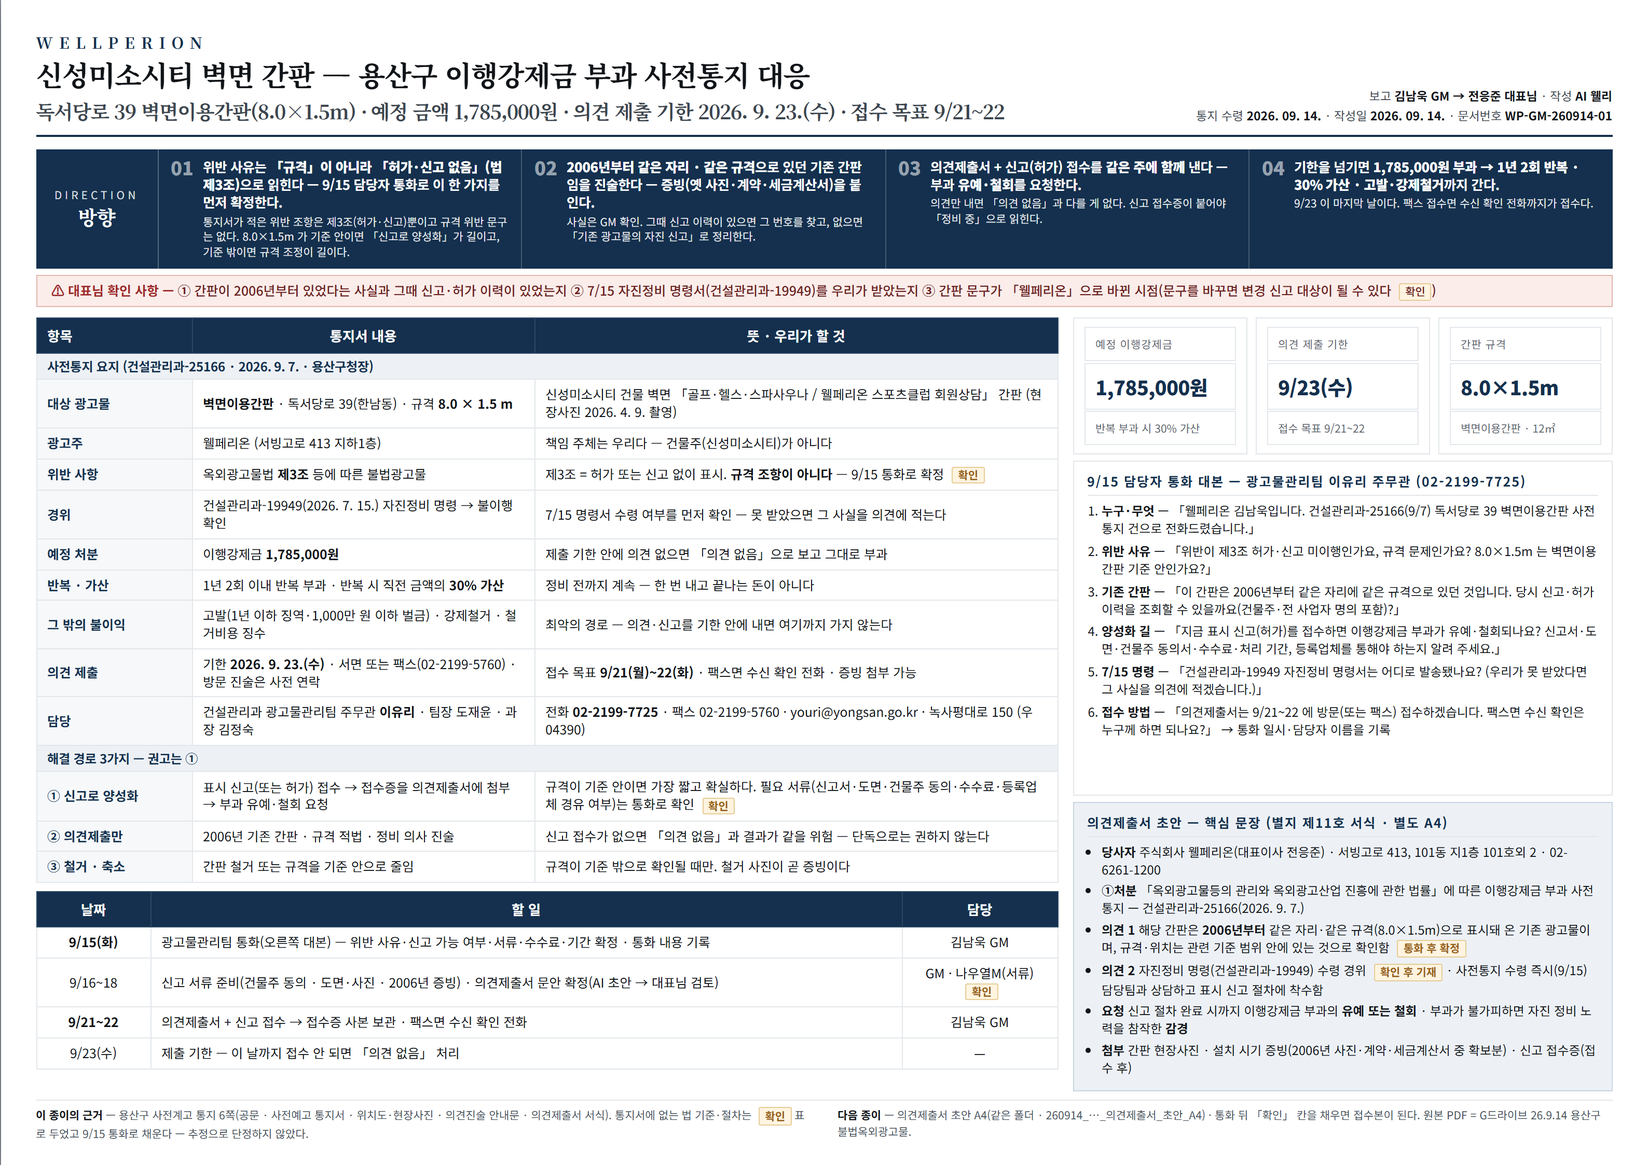
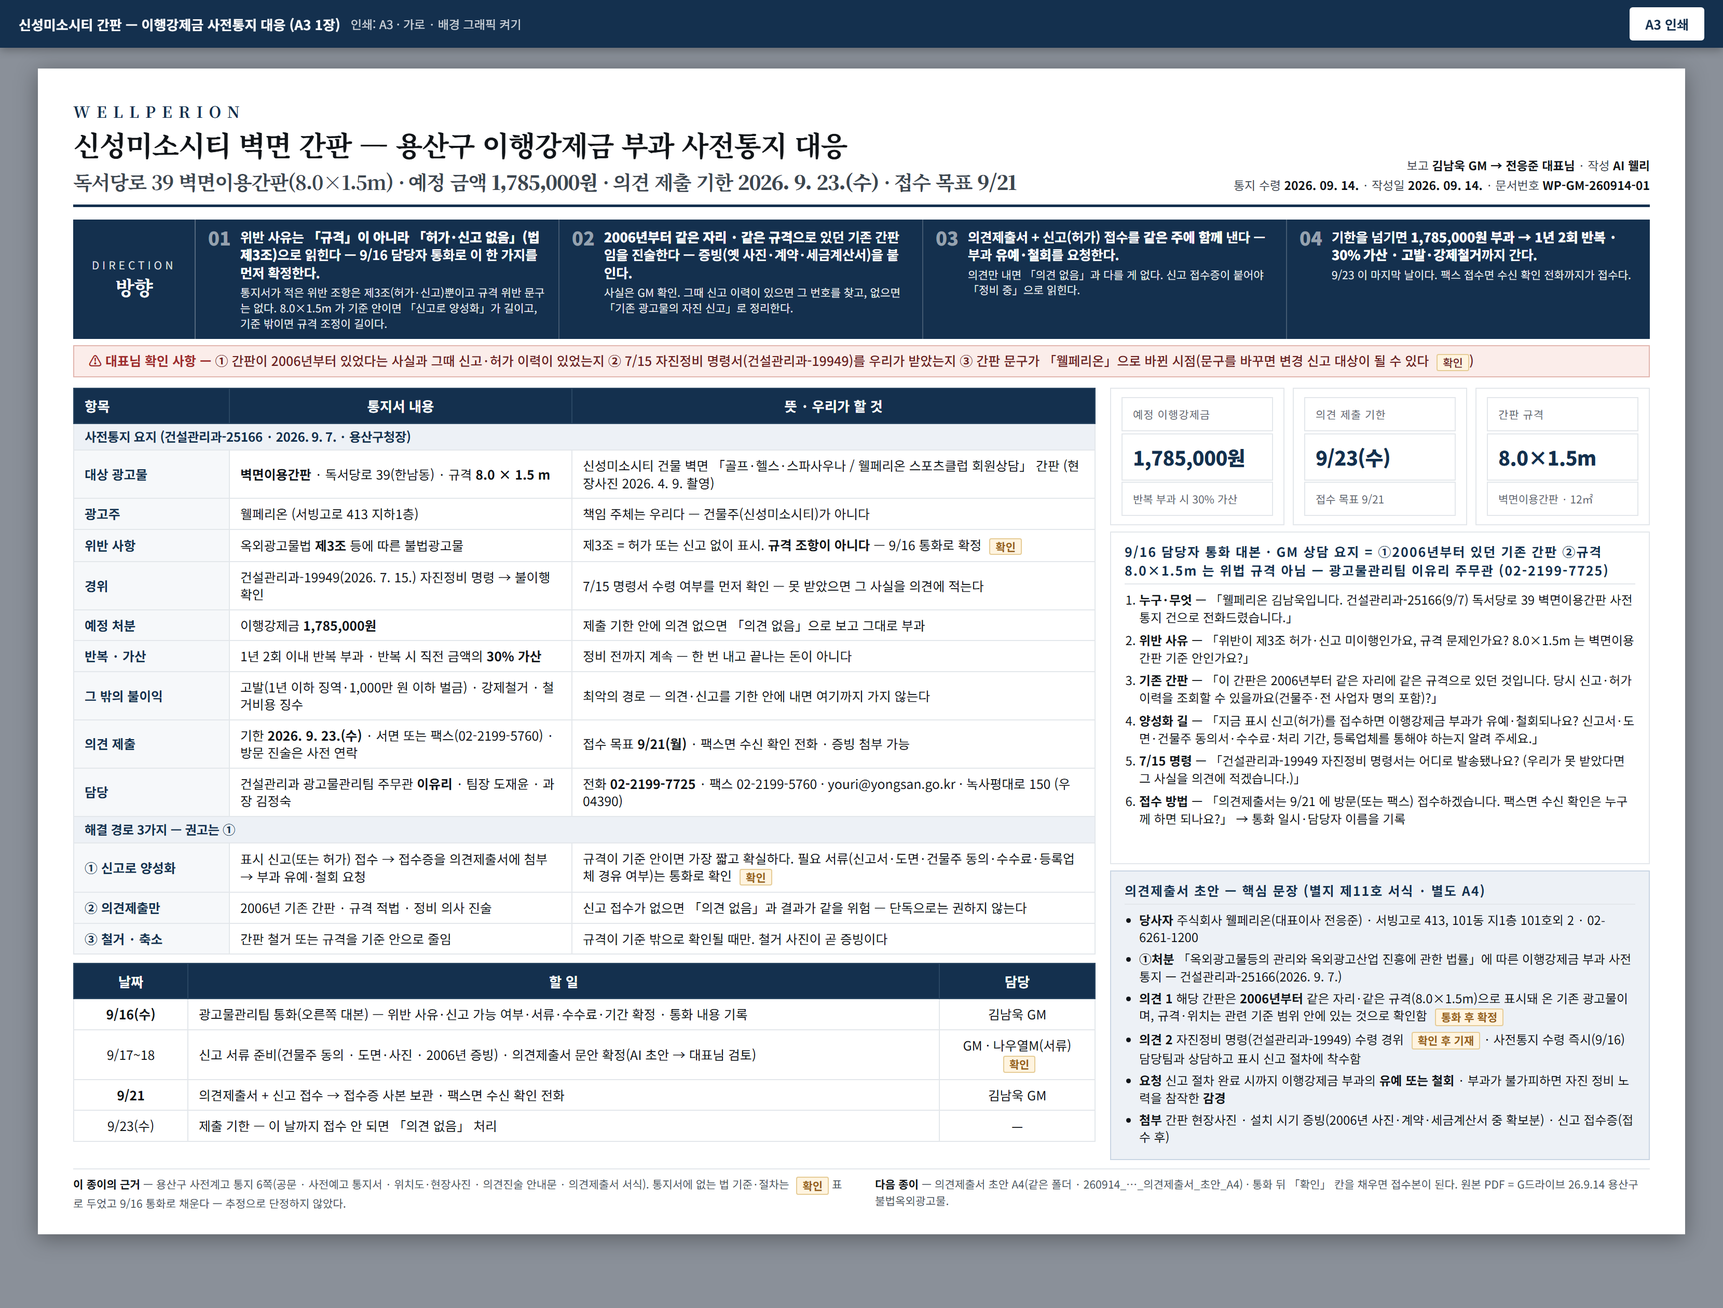
[웰리] 신성미소시티 간판 — 카드에 상담 정리·문서 3건 · 통화 9/16·접수 9/21 갱신 · 전사일정 2줄 (GM 09-15)

diff --git a/3. 웰페리온 가이드/coo/chairman/260914_신성미소시티_간판_이행강제금_대응_A3.html b/3. 웰페리온 가이드/coo/chairman/260914_신성미소시티_간판_이행강제금_대응_A3.html
@@ -9,7 +9,7 @@
 <!--
   용산구 불법옥외광고물 이행강제금 사전계고(건설관리과-25166 · 2026.9.7) 대응 요약 A3 — 2026-09-14 웰리 (GM 지시 16:05 · 대표님 보고 건)
   원본 = G:/공유 드라이브/0. 경영지원/0. 웰페리온 프로젝트&미션 진행(경영지원부)/26.9.14 용산구 불법옥외광고물/용산구불법옥외광고물이행강제금사전계고-신성미소시티.pdf (6쪽 스캔)
-  통지서에 적힌 것은 그대로 옮겼고, 법 기준·절차 가운데 통지서에 없는 것은 「확인」 표로 남겼다 — 9/15 담당자 통화로 채운다.
+  통지서에 적힌 것은 그대로 옮겼고, 법 기준·절차 가운데 통지서에 없는 것은 「확인」 표로 남겼다 — 9/16 담당자 통화로 채운다.
 -->
 <style>
   @page { size: A3 landscape; margin: 0; }
@@ -78,7 +78,7 @@
   <div class="head">
     <div>
       <div class="brand">WELLPERION</div>
-      <div class="title">신성미소시티 벽면 간판 — 용산구 이행강제금 부과 사전통지 대응<br><span style="font-size:19px;color:#3C464F">독서당로 39 벽면이용간판(8.0×1.5m) · 예정 금액 <b>1,785,000원</b> · 의견 제출 기한 <b>2026. 9. 23.(수)</b> · 접수 목표 <b>9/21~22</b></span></div>
+      <div class="title">신성미소시티 벽면 간판 — 용산구 이행강제금 부과 사전통지 대응<br><span style="font-size:19px;color:#3C464F">독서당로 39 벽면이용간판(8.0×1.5m) · 예정 금액 <b>1,785,000원</b> · 의견 제출 기한 <b>2026. 9. 23.(수)</b> · 접수 목표 <b>9/21</b></span></div>
     </div>
     <div class="meta">
       보고 <b>김남욱 GM → 전응준 대표님</b> · 작성 <b>AI 웰리</b><br>
@@ -89,7 +89,7 @@
   <div class="ask">
     <div class="lb"><span>DIRECTION</span><strong>방향</strong></div>
     <div class="items">
-      <div class="it"><div class="n">01</div><div><div class="q">위반 사유는 <b>「규격」이 아니라 「허가·신고 없음」(법 제3조)</b>으로 읽힌다 — 9/15 담당자 통화로 이 한 가지를 먼저 확정한다.</div><div class="d">통지서가 적은 위반 조항은 제3조(허가·신고)뿐이고 규격 위반 문구는 없다. 8.0×1.5m 가 기준 안이면 「신고로 양성화」가 길이고, 기준 밖이면 규격 조정이 길이다.</div></div></div>
+      <div class="it"><div class="n">01</div><div><div class="q">위반 사유는 <b>「규격」이 아니라 「허가·신고 없음」(법 제3조)</b>으로 읽힌다 — 9/16 담당자 통화로 이 한 가지를 먼저 확정한다.</div><div class="d">통지서가 적은 위반 조항은 제3조(허가·신고)뿐이고 규격 위반 문구는 없다. 8.0×1.5m 가 기준 안이면 「신고로 양성화」가 길이고, 기준 밖이면 규격 조정이 길이다.</div></div></div>
       <div class="it"><div class="n">02</div><div><div class="q"><b>2006년부터 같은 자리 · 같은 규격</b>으로 있던 기존 간판임을 진술한다 — 증빙(옛 사진·계약·세금계산서)을 붙인다.</div><div class="d">사실은 GM 확인. 그때 신고 이력이 있으면 그 번호를 찾고, 없으면 「기존 광고물의 자진 신고」로 정리한다.</div></div></div>
       <div class="it"><div class="n">03</div><div><div class="q">의견제출서 + 신고(허가) 접수를 <b>같은 주에 함께</b> 낸다 — 부과 <b>유예·철회</b>를 요청한다.</div><div class="d">의견만 내면 「의견 없음」과 다를 게 없다. 신고 접수증이 붙어야 「정비 중」으로 읽힌다.</div></div></div>
       <div class="it"><div class="n">04</div><div><div class="q">기한을 넘기면 <b>1,785,000원 부과 → 1년 2회 반복 · 30% 가산 · 고발·강제철거</b>까지 간다.</div><div class="d">9/23 이 마지막 날이다. 팩스 접수면 수신 확인 전화까지가 접수다.</div></div></div>
@@ -106,12 +106,12 @@
           <tr class="grp"><td colspan="3">사전통지 요지 (건설관리과-25166 · 2026. 9. 7. · 용산구청장)</td></tr>
           <tr><td class="k">대상 광고물</td><td><b>벽면이용간판</b> · 독서당로 39(한남동) · 규격 <b>8.0 × 1.5 m</b></td><td>신성미소시티 건물 벽면 「골프·헬스·스파사우나 / 웰페리온 스포츠클럽 회원상담」 간판 (현장사진 2026. 4. 9. 촬영)</td></tr>
           <tr><td class="k">광고주</td><td>웰페리온 (서빙고로 413 지하1층)</td><td>책임 주체는 우리다 — 건물주(신성미소시티)가 아니다</td></tr>
-          <tr><td class="k">위반 사항</td><td>옥외광고물법 <b>제3조</b> 등에 따른 불법광고물</td><td>제3조 = 허가 또는 신고 없이 표시. <b>규격 조항이 아니다</b> — 9/15 통화로 확정 <span class="chk">확인</span></td></tr>
+          <tr><td class="k">위반 사항</td><td>옥외광고물법 <b>제3조</b> 등에 따른 불법광고물</td><td>제3조 = 허가 또는 신고 없이 표시. <b>규격 조항이 아니다</b> — 9/16 통화로 확정 <span class="chk">확인</span></td></tr>
           <tr><td class="k">경위</td><td>건설관리과-19949(2026. 7. 15.) 자진정비 명령 → 불이행 확인</td><td>7/15 명령서 수령 여부를 먼저 확인 — 못 받았으면 그 사실을 의견에 적는다</td></tr>
           <tr><td class="k">예정 처분</td><td>이행강제금 <b>1,785,000원</b></td><td>제출 기한 안에 의견 없으면 「의견 없음」으로 보고 그대로 부과</td></tr>
           <tr><td class="k">반복 · 가산</td><td>1년 2회 이내 반복 부과 · 반복 시 직전 금액의 <b>30% 가산</b></td><td>정비 전까지 계속 — 한 번 내고 끝나는 돈이 아니다</td></tr>
           <tr><td class="k">그 밖의 불이익</td><td>고발(1년 이하 징역·1,000만 원 이하 벌금) · 강제철거 · 철거비용 징수</td><td>최악의 경로 — 의견·신고를 기한 안에 내면 여기까지 가지 않는다</td></tr>
-          <tr><td class="k">의견 제출</td><td>기한 <b>2026. 9. 23.(수)</b> · 서면 또는 팩스(02-2199-5760) · 방문 진술은 사전 연락</td><td>접수 목표 <b>9/21(월)~22(화)</b> · 팩스면 수신 확인 전화 · 증빙 첨부 가능</td></tr>
+          <tr><td class="k">의견 제출</td><td>기한 <b>2026. 9. 23.(수)</b> · 서면 또는 팩스(02-2199-5760) · 방문 진술은 사전 연락</td><td>접수 목표 <b>9/21(월)</b> · 팩스면 수신 확인 전화 · 증빙 첨부 가능</td></tr>
           <tr><td class="k">담당</td><td>건설관리과 광고물관리팀 주무관 <b>이유리</b> · 팀장 도재윤 · 과장 김정숙</td><td>전화 <b>02-2199-7725</b> · 팩스 02-2199-5760 · youri@yongsan.go.kr · 녹사평대로 150 (우 04390)</td></tr>
           <tr class="grp"><td colspan="3">해결 경로 3가지 — 권고는 ①</td></tr>
           <tr><td class="k good">① 신고로 양성화</td><td>표시 신고(또는 허가) 접수 → 접수증을 의견제출서에 첨부 → 부과 유예·철회 요청</td><td>규격이 기준 안이면 가장 짧고 확실하다. 필요 서류(신고서·도면·건물주 동의·수수료·등록업체 경유 여부)는 통화로 확인 <span class="chk">확인</span></td></tr>
@@ -122,9 +122,9 @@
       <table class="t3" style="margin-top:8px">
         <thead><tr><th style="width:110px">날짜</th><th>할 일</th><th style="width:150px">담당</th></tr></thead>
         <tbody>
-          <tr><td class="c"><b>9/15(화)</b></td><td>광고물관리팀 통화(오른쪽 대본) — 위반 사유·신고 가능 여부·서류·수수료·기간 확정 · 통화 내용 기록</td><td class="c">김남욱 GM</td></tr>
-          <tr><td class="c">9/16~18</td><td>신고 서류 준비(건물주 동의 · 도면·사진 · 2006년 증빙) · 의견제출서 문안 확정(AI 초안 → 대표님 검토)</td><td class="c">GM · 나우열M(서류) <span class="chk">확인</span></td></tr>
-          <tr><td class="c"><b>9/21~22</b></td><td>의견제출서 + 신고 접수 → 접수증 사본 보관 · 팩스면 수신 확인 전화</td><td class="c">김남욱 GM</td></tr>
+          <tr><td class="c"><b>9/16(수)</b></td><td>광고물관리팀 통화(오른쪽 대본) — 위반 사유·신고 가능 여부·서류·수수료·기간 확정 · 통화 내용 기록</td><td class="c">김남욱 GM</td></tr>
+          <tr><td class="c">9/17~18</td><td>신고 서류 준비(건물주 동의 · 도면·사진 · 2006년 증빙) · 의견제출서 문안 확정(AI 초안 → 대표님 검토)</td><td class="c">GM · 나우열M(서류) <span class="chk">확인</span></td></tr>
+          <tr><td class="c"><b>9/21</b></td><td>의견제출서 + 신고 접수 → 접수증 사본 보관 · 팩스면 수신 확인 전화</td><td class="c">김남욱 GM</td></tr>
           <tr><td class="c">9/23(수)</td><td>제출 기한 — 이 날까지 접수 안 되면 「의견 없음」 처리</td><td class="c">—</td></tr>
         </tbody>
       </table>
@@ -133,18 +133,18 @@
     <div class="side">
       <div class="kpi">
         <div><div class="l">예정 이행강제금</div><div class="v">1,785,000원</div><div class="s">반복 부과 시 30% 가산</div></div>
-        <div><div class="l">의견 제출 기한</div><div class="v">9/23(수)</div><div class="s">접수 목표 9/21~22</div></div>
+        <div><div class="l">의견 제출 기한</div><div class="v">9/23(수)</div><div class="s">접수 목표 9/21</div></div>
         <div><div class="l">간판 규격</div><div class="v">8.0×1.5m</div><div class="s">벽면이용간판 · 12㎡</div></div>
       </div>
       <div class="box script">
-        <h3>9/15 담당자 통화 대본 — 광고물관리팀 이유리 주무관 (02-2199-7725)</h3>
+        <h3>9/16 담당자 통화 대본 · GM 상담 요지 = ①2006년부터 있던 기존 간판 ②규격 8.0×1.5m 는 위법 규격 아님 — 광고물관리팀 이유리 주무관 (02-2199-7725)</h3>
         <ol style="list-style:decimal">
           <li><b>누구·무엇</b> — 「웰페리온 김남욱입니다. 건설관리과-25166(9/7) 독서당로 39 벽면이용간판 사전통지 건으로 전화드렸습니다.」</li>
           <li><b>위반 사유</b> — 「위반이 제3조 허가·신고 미이행인가요, 규격 문제인가요? 8.0×1.5m 는 벽면이용간판 기준 안인가요?」</li>
           <li><b>기존 간판</b> — 「이 간판은 2006년부터 같은 자리에 같은 규격으로 있던 것입니다. 당시 신고·허가 이력을 조회할 수 있을까요(건물주·전 사업자 명의 포함)?」</li>
           <li><b>양성화 길</b> — 「지금 표시 신고(허가)를 접수하면 이행강제금 부과가 유예·철회되나요? 신고서·도면·건물주 동의서·수수료·처리 기간, 등록업체를 통해야 하는지 알려 주세요.」</li>
           <li><b>7/15 명령</b> — 「건설관리과-19949 자진정비 명령서는 어디로 발송됐나요? (우리가 못 받았다면 그 사실을 의견에 적겠습니다.)」</li>
-          <li><b>접수 방법</b> — 「의견제출서는 9/21~22 에 방문(또는 팩스) 접수하겠습니다. 팩스면 수신 확인은 누구께 하면 되나요?」 → 통화 일시·담당자 이름을 기록</li>
+          <li><b>접수 방법</b> — 「의견제출서는 9/21 에 방문(또는 팩스) 접수하겠습니다. 팩스면 수신 확인은 누구께 하면 되나요?」 → 통화 일시·담당자 이름을 기록</li>
         </ol>
       </div>
       <div class="box rec">
@@ -153,7 +153,7 @@
           <li><b>당사자</b> 주식회사 웰페리온(대표이사 전응준) · 서빙고로 413, 101동 지1층 101호외 2 · 02-6261-1200</li>
           <li><b>①처분</b> 「옥외광고물등의 관리와 옥외광고산업 진흥에 관한 법률」에 따른 이행강제금 부과 사전통지 — 건설관리과-25166(2026. 9. 7.)</li>
           <li><b>의견 1</b> 해당 간판은 <b>2006년부터</b> 같은 자리·같은 규격(8.0×1.5m)으로 표시돼 온 기존 광고물이며, 규격·위치는 관련 기준 범위 안에 있는 것으로 확인함 <span class="chk">통화 후 확정</span></li>
-          <li><b>의견 2</b> 자진정비 명령(건설관리과-19949) 수령 경위 <span class="chk">확인 후 기재</span> · 사전통지 수령 즉시(9/15) 담당팀과 상담하고 표시 신고 절차에 착수함</li>
+          <li><b>의견 2</b> 자진정비 명령(건설관리과-19949) 수령 경위 <span class="chk">확인 후 기재</span> · 사전통지 수령 즉시(9/16) 담당팀과 상담하고 표시 신고 절차에 착수함</li>
           <li><b>요청</b> 신고 절차 완료 시까지 이행강제금 부과의 <b>유예 또는 철회</b> · 부과가 불가피하면 자진 정비 노력을 참작한 <b>감경</b></li>
           <li><b>첨부</b> 간판 현장사진 · 설치 시기 증빙(2006년 사진·계약·세금계산서 중 확보분) · 신고 접수증(접수 후)</li>
         </ul>
@@ -162,7 +162,7 @@
   </div>
 
   <div class="foot">
-    <div><b>이 종이의 근거</b> — 용산구 사전계고 통지 6쪽(공문 · 사전예고 통지서 · 위치도·현장사진 · 의견진술 안내문 · 의견제출서 서식). 통지서에 없는 법 기준·절차는 <span class="chk">확인</span> 표로 두었고 9/15 통화로 채운다 — 추정으로 단정하지 않았다.</div>
+    <div><b>이 종이의 근거</b> — 용산구 사전계고 통지 6쪽(공문 · 사전예고 통지서 · 위치도·현장사진 · 의견진술 안내문 · 의견제출서 서식). 통지서에 없는 법 기준·절차는 <span class="chk">확인</span> 표로 두었고 9/16 통화로 채운다 — 추정으로 단정하지 않았다.</div>
     <div><b>다음 종이</b> — 의견제출서 초안 A4(같은 폴더 · 260914_…_의견제출서_초안_A4) · 통화 뒤 「확인」 칸을 채우면 접수본이 된다. 원본 PDF = G드라이브 26.9.14 용산구 불법옥외광고물.</div>
   </div>
 </div>

diff --git a/3. 웰페리온 가이드/coo/chairman/260914_신성미소시티_간판_의견제출서_초안_A4.html b/3. 웰페리온 가이드/coo/chairman/260914_신성미소시티_간판_의견제출서_초안_A4.html
@@ -7,7 +7,7 @@
 <link href="https://fonts.googleapis.com/css2?family=Noto+Sans+KR:wght@400;500;700;900&family=Noto+Serif+KR:wght@600;700&display=swap" rel="stylesheet">
 <!--
   용산구 [별지 제11호서식] 의견제출서 초안 — 2026-09-14 웰리 (GM 지시 · 대표님 보고 건).
-  서식 칸 순서·이름은 통지서 6쪽 서식 그대로. 【 】 안은 9/15 담당자 통화·대표님 확인 뒤 채우거나 지운다.
+  서식 칸 순서·이름은 통지서 6쪽 서식 그대로. 【 】 안은 9/16 담당자 통화·대표님 확인 뒤 채우거나 지운다.
   접수는 구청 서식 원본(통지서 6쪽)에 이 문안을 옮겨 적거나, 이 종이를 별지로 붙인다(서식 유의사항 1 · 별지 사용 가능).
 -->
 <style>
@@ -42,7 +42,7 @@
 <div class="page" id="sheet">
   <div class="form">[별지 제11호서식] &lt;개정 2022. 7. 11.&gt;</div>
   <h1>의 견 제 출 서</h1>
-  <div class="note">※ 아래의 유의사항을 읽고 작성하시기 바랍니다. &nbsp;&nbsp; 【 】 = 담당자 통화(9/15)·대표님 확인 뒤 채우거나 지우는 칸</div>
+  <div class="note">※ 아래의 유의사항을 읽고 작성하시기 바랍니다. &nbsp;&nbsp; 【 】 = 담당자 통화(9/16)·대표님 확인 뒤 채우거나 지우는 칸</div>
   <table>
     <tr><th rowspan="2">의견제출인</th><td colspan="2">성명 &nbsp; <b>주식회사 웰페리온 &nbsp;대표이사 전응준</b></td></tr>
     <tr><td style="width:62%">주소 &nbsp; 서울특별시 용산구 서빙고로 413, 101동 지1층 101호외 2 (한남동)</td><td>전화번호 &nbsp; 02-6261-1200</td></tr>
@@ -51,16 +51,16 @@
     <tr><td class="sub">의 견</td><td class="op">
       <ol>
         <li><b>기존 광고물입니다.</b> 해당 벽면이용간판은 <b>2006년부터</b> 같은 자리에 같은 규격(8.0×1.5m)으로 표시되어 온 것으로, 새로 설치한 광고물이 아닙니다. 【그때 신고·허가 이력이 있으면 번호·일자를 적음 / 없으면 이 문장 삭제】</li>
-        <li><b>규격·위치.</b> 담당팀 상담(9/15) 결과 규격·위치는 관련 기준 범위 안에 있는 것으로 확인하였습니다. 【통화 결과가 다르면 「기준에 맞게 규격을 조정하겠다」로 바꿈】</li>
+        <li><b>규격·위치.</b> 담당팀 상담(9/16) 결과 규격·위치는 관련 기준 범위 안에 있는 것으로 확인하였습니다. 【통화 결과가 다르면 「기준에 맞게 규격을 조정하겠다」로 바꿈】</li>
         <li><b>자진정비 명령의 경위.</b> 【건설관리과-19949(2026. 7. 15.) 명령서를 받은 사실이 없어 정비 기회를 갖지 못하였습니다 / 받았으나 ○○ 사유로 지연되었습니다 — 하나만 남김】</li>
-        <li><b>정비 진행.</b> 이번 사전통지를 받은 즉시(9/15) 광고물관리팀과 상담하였고, 같은 날부터 표시 신고(허가) 절차에 착수하여 【신고 접수일 ○월 ○일 · 접수번호 ○○】 접수하였습니다(접수증 첨부).</li>
+        <li><b>정비 진행.</b> 이번 사전통지를 받은 즉시(9/16) 광고물관리팀과 상담하였고, 같은 날부터 표시 신고(허가) 절차에 착수하여 【신고 접수일 ○월 ○일 · 접수번호 ○○】 접수하였습니다(접수증 첨부).</li>
         <li><b>요청.</b> 위 신고 절차가 마무리될 때까지 이행강제금 부과의 <b>유예 또는 철회</b>를 요청드립니다. 부과가 불가피하다면 기존 광고물인 점과 자진 정비 노력을 참작하여 <b>감경</b>하여 주시기를 요청드립니다.</li>
       </ol>
     </td></tr>
     <tr><td class="sub">기 타</td><td>첨부: ① 간판 현장사진 ② 설치 시기 증빙(【2006년 사진 · 계약서 · 세금계산서 중 확보분】) ③ 표시 신고 접수증(【접수 후】) ④ 건물 관리단 동의서(【필요 시】)<br>연락 담당: 김남욱 GM (02-6261-1200) · 방문 진술 희망 시 사전 연락드리겠습니다.</td></tr>
   </table>
   <div class="law">「행정절차법」 제27조제1항, 제31조제3항 및 제40조의3제4항에 따라 위와 같이 의견을 제출합니다.</div>
-  <div class="date">2026년 &nbsp;9월 &nbsp;【21~22】일</div>
+  <div class="date">2026년 &nbsp;9월 &nbsp;21일</div>
   <div class="signer"><span>의견제출인 &nbsp; 주식회사 웰페리온 &nbsp;대표이사 전응준</span><span>(서명 또는 인)</span></div>
   <div class="to">용산구청장 귀하</div>
   <div class="memo">

diff --git a/status/monthly_ops_plan_이력.md b/status/monthly_ops_plan_이력.md
@@ -2129,3 +2129,5 @@ GM: 거의 마무리된 것으로 파악
 ▶[2026-09-15 웰리] 3라인 카드 「화요일 09:00 참석 회신 단독 통」 체크를 ☑ 로 — 화 07:50 자동 회의자료 통(send_ops_digest.send_weekly_meeting_pack · 카드 2026-09-35)으로 대체. 회의자료 정본 = coo/chairman/중간관리자_회의자료_A3.html(주별 ?week=) · 회차 원장 = status/weekly_meeting_ledger.json · 사전 보고 수집 = status/weekly_meeting_intake.json.
 
 - [2026-09-15 15:5x 웰리] 2026-08-08 progress_note 에 9/16 브로제이 게이트 현장 실측 줄 + 체크 2개 추가(GM 지시 15:44)
+
+- [2026-09-15 16:1x 웰리] 2026-09-30 간판 카드 — 상담 내용 정리 4줄·할 일 4건(9/16 통화·대표님 전달·9/17 서류·9/21 접수)·docs 3건 추가(GM 「GM업무에 내용정리 추가」)
